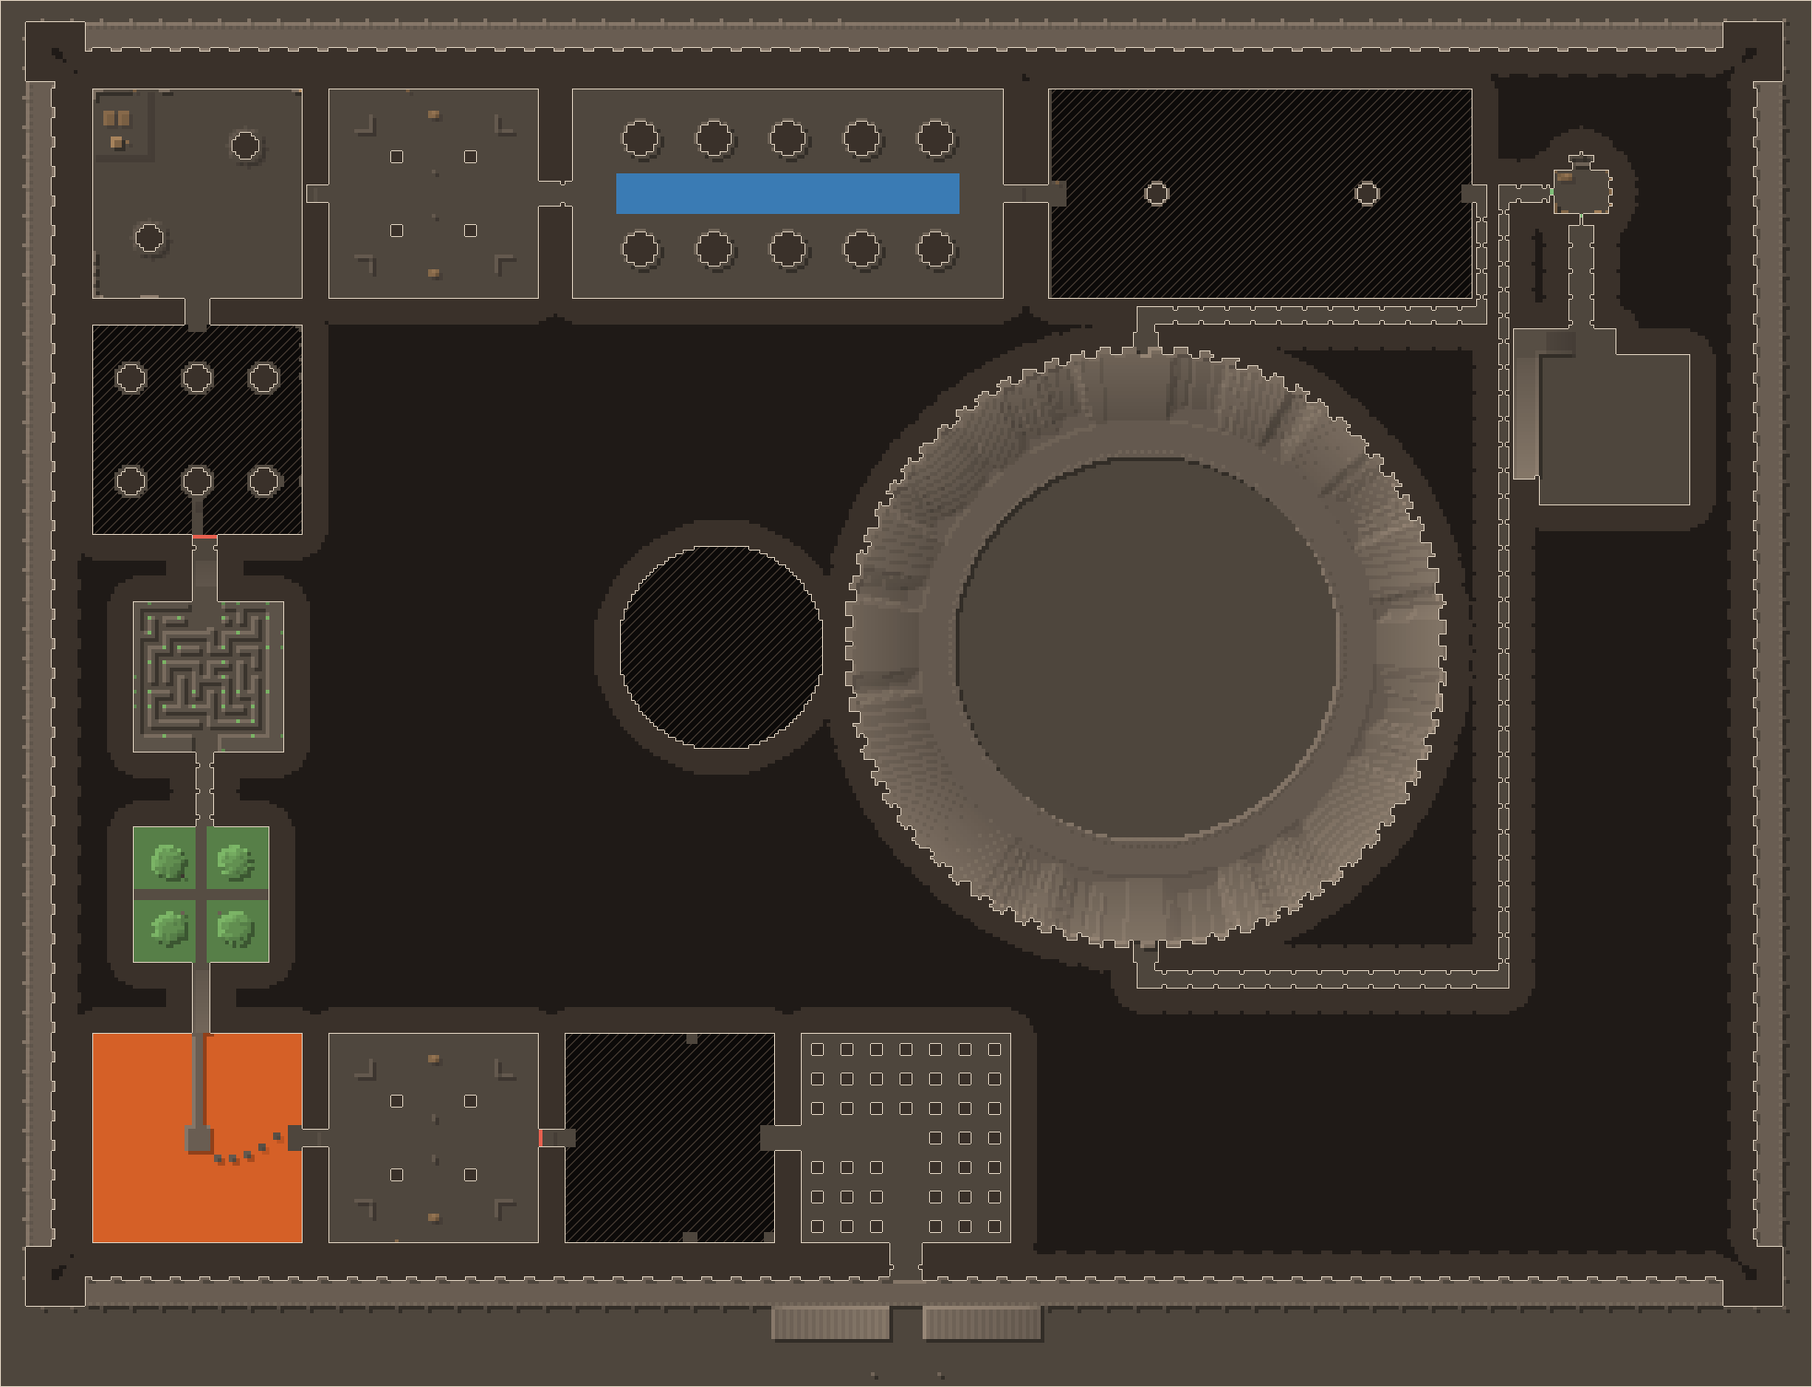
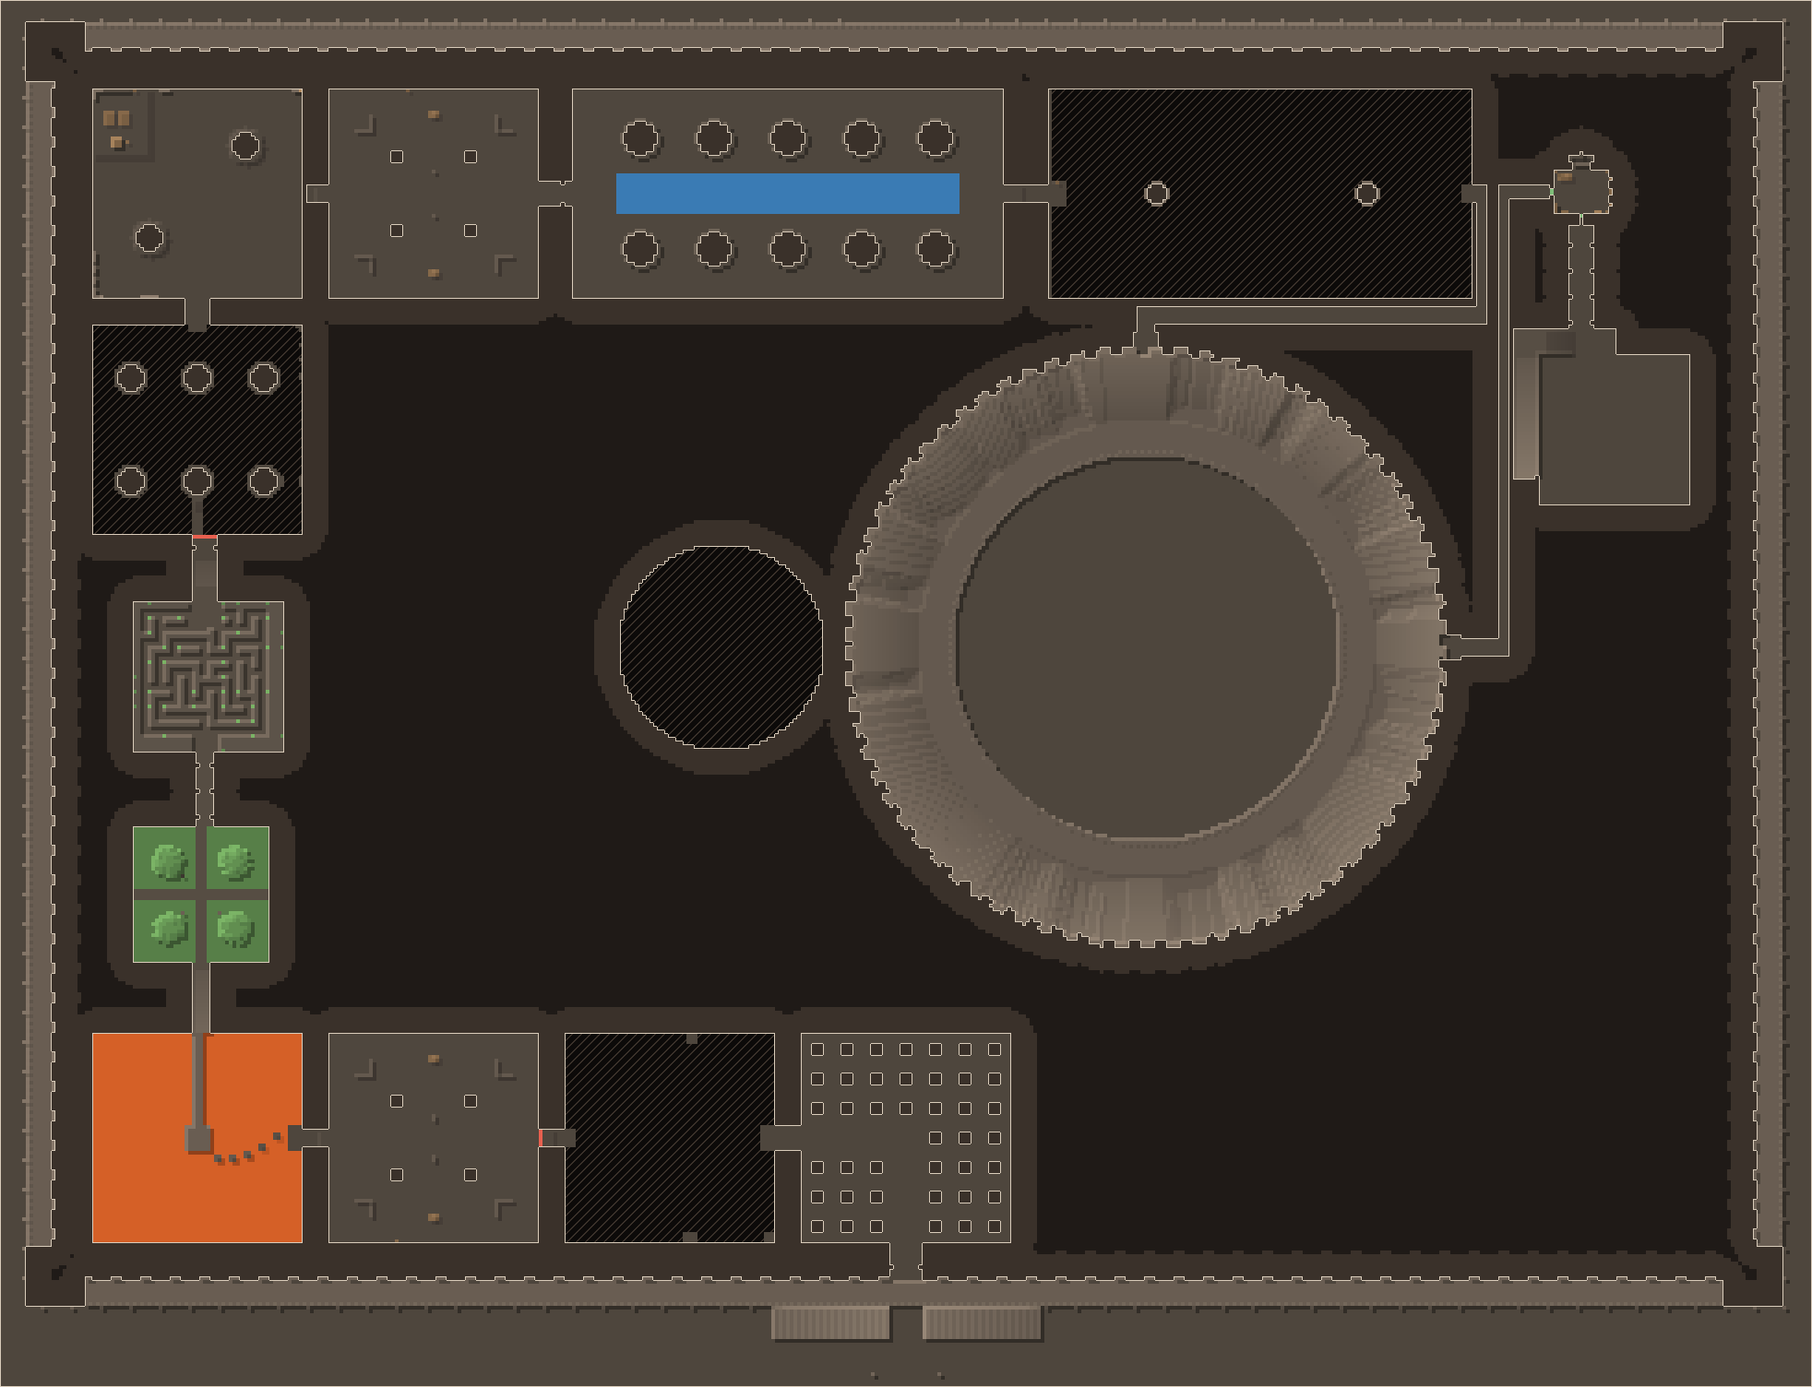
map update

Changed region(s): [[0.5901, 0.4688, 0.8697, 0.75]]

diff --git a/src/mapdata.js b/src/mapdata.js
@@ -1,3 +1,3 @@
 // Generated by tools/gen-map.js - do not edit by hand.
-const MAPDATA = {"version":47,"scale":4,"levels":{"1":{"x0":-245,"z0":-270,"w":491,"h":376,"rooms":[{"kind":"ENTRANCE","name":"Entrance","sort":"start","floor":70,"height":33,"tags":[],"box":[-28,10,29,67],"at":[1,39]},{"kind":"PF8","name":"Parkour: Void","sort":"parkour","floor":70,"height":45,"tags":[],"box":[-92,10,-35,67],"at":[-63,39]},{"kind":"ARENA","name":"Combat Arena","sort":"fight","floor":71,"height":45,"tags":["gated","chest"],"box":[-156,10,-99,67],"at":[-127,39]},{"kind":"PF6","name":"Parkour: Lava","sort":"parkour","floor":70,"height":45,"tags":[],"box":[-220,10,-163,67],"at":[-191,39]},{"kind":"GARDEN","name":"Garden","sort":"room","floor":77,"height":24,"tags":[],"box":[-209,-46,-172,-9],"at":[-190,-27]},{"kind":"LIBRARY","name":"Library","sort":"room","floor":77,"height":39,"tags":[],"box":[-209,-107,-168,-66],"at":[-188,-86]},{"kind":"PF2","name":"Parkour: Void","sort":"parkour","floor":70,"height":45,"tags":["gated"],"box":[-220,-182,-163,-125],"at":[-191,-153]},{"kind":"GOLEM2","name":"Golem Room 2","sort":"puzzle","floor":70,"height":45,"tags":[],"box":[-220,-246,-163,-189],"at":[-191,-217]},{"kind":"ARENA","name":"Combat Arena","sort":"fight","floor":71,"height":33,"tags":["chest"],"box":[-156,-246,-99,-189],"at":[-127,-217]},{"kind":"MASSIVE","name":"Great Hall","sort":"room","floor":71,"height":75,"tags":[],"box":[-90,-246,27,-189],"at":[-31,-217]},{"kind":"CRUCIBLE","name":"Crucible Rotation","sort":"parkour","floor":70,"height":45,"tags":[],"box":[39,-246,158,-186],"at":[99,-216]},{"kind":"COLOSSEUM","name":"Colosseum: Standard","sort":"colosseum","floor":70,"height":46,"tags":[],"box":[-21,-181,151,-9],"colosseum":1,"at":[65,-95]},{"kind":"SAFE","name":"Safe Room","sort":"safe","floor":70,"height":21,"tags":[],"box":[161,-224,187,-212],"at":[174,-218]},{"kind":"STAIRWELL","name":"Stairs Up","sort":"stairs","floor":70,"height":12,"tags":[],"box":[161,-181,213,-133],"at":[187,-157]}],"route":[[[1.5,39.5],[-62.5,39.5]],[[-62.5,39.5],[-126.5,39.5]],[[-126.5,39.5],[-190.5,39.5]],[[-190.5,39.5],[-189.5,-26.5]],[[-189.5,-26.5],[-189.5,-83.5],[-187.5,-85.5]],[[-187.5,-85.5],[-189.5,-89.5],[-189.5,-128.5],[-182.5,-135.5],[-182.5,-144.5],[-190.5,-152.5]],[[-190.5,-152.5],[-182.5,-160.5],[-182.5,-171.5],[-191.5,-180.5],[-190.5,-216.5]],[[-126.5,-216.5],[-30.5,-216.5]],[[-30.5,-216.5],[47.5,-217.5],[58.5,-206.5],[84.5,-206.5],[96.5,-215.5],[99.5,-215.5]],[[99.5,-215.5],[109.5,-206.5],[134.5,-206.5],[144.5,-216.5],[154.5,-216.5],[156.5,-214.5],[156.5,-186.5],[154.5,-184.5],[68.5,-184.5],[65.5,-181.5],[65.5,-94.5]],[[65.5,-94.5],[65.5,-7.5],[68.5,-4.5],[160.5,-4.5],[162.5,-6.5],[162.5,-215.5],[164.5,-217.5],[179.5,-217.5]],[[179.5,-217.5],[183.5,-213.5],[183.5,-160.5],[187.5,-156.5]]],"locked":[[[-191,-217],[-127,-217]]],"chests":[[-209,-246],[-164,-246],[-135,-246],[-138,66],[178,-213],[179,-213]]},"2":{"x0":-245,"z0":-270,"w":491,"h":376,"rooms":[{"kind":"CHAPEL","name":"Chapel","sort":"room","floor":121,"height":25,"tags":["trap"],"box":[180,-238,207,-199],"at":[194,-218]},{"kind":"PF3","name":"Parkour: Lava","sort":"parkour","floor":120,"height":45,"tags":[],"box":[100,-246,157,-189],"at":[129,-217]},{"kind":"ARMORY","name":"Armory","sort":"room","floor":142,"height":24,"tags":["chest"],"box":[36,-246,93,-189],"at":[65,-217]},{"kind":"OVER","name":"High Bridge","sort":"room","floor":135,"height":10,"tags":["bridge"],"box":[-90,-246,27,-186],"at":[-31,-216]},{"kind":"ROTUNDA","name":"Rotunda","sort":"room","floor":129,"height":37,"tags":["gated"],"box":[-152,-244,-99,-186],"at":[-125,-215]},{"kind":"GOLEM","name":"Golem Room","sort":"puzzle","floor":130,"height":26,"tags":[],"box":[-203,-248,-180,-201],"at":[-191,-224]},{"kind":"HYPOSTYLE","name":"Hypostyle Hall","sort":"room","floor":127,"height":39,"tags":["gated"],"box":[-215,-180,-162,-127],"at":[-188,-153]},{"kind":"ARENA","name":"Combat Arena","sort":"fight","floor":127,"height":27,"tags":[],"box":[-220,-118,-163,-61],"at":[-191,-89]},{"kind":"COLONNADE","name":"Colonnade","sort":"room","floor":127,"height":28,"tags":[],"box":[-208,-49,-175,0],"at":[-191,-24]},{"kind":"PF5","name":"Parkour: Lava","sort":"parkour","floor":120,"height":45,"tags":[],"box":[-220,10,-163,67],"at":[-191,39]},{"kind":"ARENA","name":"Combat Arena","sort":"fight","floor":133,"height":27,"tags":["chest"],"box":[-156,10,-96,67],"at":[-126,39]},{"kind":"COLOSSEUM","name":"Colosseum: Ring","sort":"colosseum","floor":120,"height":46,"tags":[],"box":[-136,-181,36,-9],"colosseum":2,"at":[-50,-95]},{"kind":"SAFE","name":"Safe Room","sort":"safe","floor":120,"height":21,"tags":[],"box":[-96,19,-60,32],"at":[-78,26]},{"kind":"STAIRWELL","name":"Stairs Up","sort":"stairs","floor":120,"height":12,"tags":[],"box":[-27,11,21,59],"at":[-3,35]}],"route":[[[194.5,-217.5],[129.5,-216.5]],[[129.5,-216.5],[116.5,-227.5],[76.5,-227.5],[65.5,-216.5]],[[65.5,-216.5],[-28.5,-217.5],[-30.5,-215.5]],[[-30.5,-215.5],[-32.5,-217.5],[-121.5,-217.5],[-124.5,-214.5]],[[-124.5,-214.5],[-127.5,-217.5],[-184.5,-217.5],[-190.5,-223.5]],[[-190.5,-223.5],[-190.5,-155.5],[-187.5,-152.5]],[[-187.5,-152.5],[-190.5,-149.5],[-190.5,-88.5]],[[-190.5,-88.5],[-190.5,-23.5]],[[-190.5,-23.5],[-190.5,39.5]],[[-190.5,39.5],[-168.5,59.5],[-154.5,59.5],[-147.5,52.5],[-147.5,48.5],[-138.5,39.5],[-125.5,39.5]],[[-125.5,39.5],[-111.5,25.5],[-98.5,25.5],[-96.5,23.5],[-96.5,-2.5],[-98.5,-4.5],[-141.5,-4.5],[-144.5,-7.5],[-144.5,-181.5],[-141.5,-184.5],[-52.5,-184.5],[-49.5,-181.5],[-49.5,-94.5]],[[-49.5,-94.5],[-49.5,-7.5],[-52.5,-4.5],[-75.5,-4.5],[-77.5,-2.5],[-76.5,25.5]],[[-76.5,25.5],[-61.5,25.5],[-58.5,28.5],[-53.5,29.5],[-8.5,29.5],[-2.5,35.5]]],"locked":[],"chests":[[-181,-248],[-181,-246],[-181,-245],[-144,10],[-69,30],[-68,30],[50,-246]]},"3":{"x0":-245,"z0":-270,"w":491,"h":376,"rooms":[{"kind":"PRISON","name":"Prison","sort":"room","floor":172,"height":44,"tags":[],"box":[-90,12,-33,69],"at":[-61,41]},{"kind":"TREASURY","name":"Treasury","sort":"room","floor":173,"height":24,"tags":["trap"],"box":[-149,16,-108,57],"at":[-128,37]},{"kind":"PF1","name":"Parkour: Lava","sort":"parkour","floor":170,"height":45,"tags":[],"box":[-220,10,-163,67],"at":[-191,39]},{"kind":"LIBRARY","name":"Library","sort":"room","floor":192,"height":24,"tags":["trap"],"box":[-209,-45,-172,-8],"at":[-190,-26]},{"kind":"BARRACKS","name":"Barracks","sort":"room","floor":170,"height":22,"tags":[],"box":[-204,-112,-175,-73],"at":[-189,-92]},{"kind":"CRYPT","name":"Crypt","sort":"room","floor":170,"height":35,"tags":["chest"],"box":[-215,-178,-162,-129],"at":[-188,-153]},{"kind":"PF7","name":"Parkour: Lava","sort":"parkour","floor":170,"height":45,"tags":[],"box":[-220,-246,-163,-189],"at":[-191,-217]},{"kind":"ARENA","name":"Combat Arena","sort":"fight","floor":198,"height":18,"tags":[],"box":[-156,-246,-99,-189],"at":[-127,-217]},{"kind":"POOL","name":"Pool","sort":"room","floor":189,"height":27,"tags":[],"box":[-88,-242,-35,-189],"at":[-61,-215]},{"kind":"KITCHEN","name":"Kitchen","sort":"room","floor":186,"height":30,"tags":["trap"],"box":[-30,-238,27,-195],"at":[-1,-216]},{"kind":"ARENA","name":"Combat Arena","sort":"fight","floor":179,"height":24,"tags":[],"box":[36,-246,93,-186],"at":[65,-216]},{"kind":"THRONE","name":"Throne Room","sort":"fight","floor":180,"height":27,"tags":["chest"],"box":[111,-247,154,-186],"at":[133,-216]},{"kind":"COLOSSEUM","name":"Colosseum: Cylinder","sort":"colosseum","floor":170,"height":46,"tags":[],"box":[-21,-181,151,-9],"colosseum":3,"at":[65,-95]},{"kind":"SAFE","name":"Safe Room","sort":"safe","floor":180,"height":21,"tags":[],"box":[161,-224,196,-212],"at":[179,-218]},{"kind":"STAIRWELL","name":"Stairs Up","sort":"stairs","floor":181,"height":12,"tags":["gated"],"box":[161,-181,220,-133],"at":[191,-157]}],"route":[[[-60.5,41.5],[-65.5,38.5],[-127.5,37.5]],[[-127.5,37.5],[-172.5,37.5],[-190.5,39.5]],[[-190.5,39.5],[-189.5,-25.5]],[[-189.5,-25.5],[-188.5,-91.5]],[[-188.5,-91.5],[-190.5,-100.5],[-190.5,-149.5],[-187.5,-152.5]],[[-187.5,-152.5],[-191.5,-156.5],[-190.5,-216.5]],[[-190.5,-216.5],[-166.5,-194.5],[-151.5,-194.5],[-146.5,-198.5],[-136.5,-198.5],[-127.5,-207.5],[-126.5,-216.5]],[[-126.5,-216.5],[-63.5,-216.5],[-60.5,-214.5]],[[-60.5,-214.5],[-0.5,-215.5]],[[-0.5,-215.5],[65.5,-215.5]],[[65.5,-215.5],[67.5,-217.5],[130.5,-217.5],[133.5,-215.5]],[[133.5,-215.5],[150.5,-216.5],[152.5,-214.5],[152.5,-186.5],[150.5,-184.5],[68.5,-184.5],[65.5,-181.5],[65.5,-94.5]],[[65.5,-94.5],[65.5,-7.5],[68.5,-4.5],[160.5,-4.5],[162.5,-6.5],[162.5,-214.5],[165.5,-217.5],[177.5,-217.5]],[[177.5,-217.5],[188.5,-217.5],[192.5,-213.5],[192.5,-181.5],[195.5,-177.5],[195.5,-160.5],[191.5,-156.5]]],"locked":[],"chests":[[-212,-154],[-201,-99],[-201,-102],[-201,-105],[-201,-108],[-179,-99],[-179,-102],[-179,-105],[-179,-108],[-201,-81],[-201,-84],[-201,-87],[-201,-90],[-201,-93],[-201,-96],[-179,-81],[-179,-84],[-179,-87],[-179,-90],[-179,-93],[-179,-96],[-201,-78],[-179,-78],[-149,21],[-149,24],[-149,27],[-149,30],[-147,16],[-149,18],[-129,16],[-144,16],[-141,16],[-138,16],[-135,16],[-132,16],[-114,16],[-126,16],[-123,16],[-120,16],[-117,16],[-109,27],[-109,30],[-111,16],[-109,18],[-109,21],[-109,24],[-149,42],[-149,45],[-109,45],[-149,51],[-149,54],[-147,56],[-149,48],[-138,56],[-135,56],[-132,56],[-129,56],[-144,56],[-141,56],[-120,56],[-117,56],[-114,56],[-126,56],[-123,56],[-109,48],[-109,51],[-111,56],[-109,54],[128,-247],[187,-213],[188,-213]]}}};
+const MAPDATA = {"version":49,"scale":4,"levels":{"1":{"x0":-245,"z0":-270,"w":491,"h":376,"rooms":[{"kind":"ENTRANCE","name":"Entrance","sort":"start","floor":70,"height":33,"tags":[],"box":[-28,10,29,67],"at":[1,39]},{"kind":"PF8","name":"Parkour: Void","sort":"parkour","floor":70,"height":45,"tags":[],"box":[-92,10,-35,67],"at":[-63,39]},{"kind":"ARENA","name":"Combat Arena","sort":"fight","floor":71,"height":45,"tags":["gated","chest"],"box":[-156,10,-99,67],"at":[-127,39]},{"kind":"PF6","name":"Parkour: Lava","sort":"parkour","floor":70,"height":45,"tags":[],"box":[-220,10,-163,67],"at":[-191,39]},{"kind":"GARDEN","name":"Garden","sort":"room","floor":77,"height":24,"tags":[],"box":[-209,-46,-172,-9],"at":[-190,-27]},{"kind":"LIBRARY","name":"Library","sort":"room","floor":77,"height":39,"tags":[],"box":[-209,-107,-168,-66],"at":[-188,-86]},{"kind":"PF2","name":"Parkour: Void","sort":"parkour","floor":70,"height":45,"tags":["gated"],"box":[-220,-182,-163,-125],"at":[-191,-153]},{"kind":"GOLEM2","name":"Golem Room 2","sort":"puzzle","floor":70,"height":45,"tags":[],"box":[-220,-246,-163,-189],"at":[-191,-217]},{"kind":"ARENA","name":"Combat Arena","sort":"fight","floor":71,"height":33,"tags":["chest"],"box":[-156,-246,-99,-189],"at":[-127,-217]},{"kind":"MASSIVE","name":"Great Hall","sort":"room","floor":71,"height":75,"tags":[],"box":[-90,-246,27,-189],"at":[-31,-217]},{"kind":"CRUCIBLE","name":"Crucible Rotation","sort":"parkour","floor":70,"height":45,"tags":[],"box":[39,-246,158,-186],"at":[99,-216]},{"kind":"COLOSSEUM","name":"Colosseum: Standard","sort":"colosseum","floor":70,"height":46,"tags":[],"box":[-21,-181,151,-9],"colosseum":1,"at":[65,-95]},{"kind":"SAFE","name":"Safe Room","sort":"safe","floor":70,"height":21,"tags":[],"box":[161,-224,187,-212],"at":[174,-218]},{"kind":"STAIRWELL","name":"Stairs Up","sort":"stairs","floor":70,"height":12,"tags":[],"box":[161,-181,213,-133],"at":[187,-157]}],"route":[[[1.5,39.5],[-62.5,39.5]],[[-62.5,39.5],[-126.5,39.5]],[[-126.5,39.5],[-190.5,39.5]],[[-190.5,39.5],[-189.5,-26.5]],[[-189.5,-26.5],[-189.5,-83.5],[-187.5,-85.5]],[[-187.5,-85.5],[-189.5,-89.5],[-189.5,-128.5],[-182.5,-135.5],[-182.5,-144.5],[-190.5,-152.5]],[[-190.5,-152.5],[-182.5,-160.5],[-182.5,-171.5],[-191.5,-180.5],[-190.5,-216.5]],[[-126.5,-216.5],[-30.5,-216.5]],[[-30.5,-216.5],[47.5,-217.5],[58.5,-206.5],[84.5,-206.5],[96.5,-215.5],[99.5,-215.5]],[[99.5,-215.5],[109.5,-206.5],[134.5,-206.5],[144.5,-216.5],[154.5,-216.5],[156.5,-214.5],[156.5,-186.5],[154.5,-184.5],[68.5,-184.5],[65.5,-181.5],[65.5,-94.5]],[[65.5,-94.5],[160.5,-94.5],[162.5,-96.5],[162.5,-215.5],[164.5,-217.5],[179.5,-217.5]],[[179.5,-217.5],[183.5,-213.5],[183.5,-160.5],[187.5,-156.5]]],"locked":[[[-191,-217],[-127,-217]]],"chests":[[-209,-246],[-164,-246],[-135,-246],[-138,66],[178,-213],[179,-213]]},"2":{"x0":-245,"z0":-270,"w":491,"h":376,"rooms":[{"kind":"CHAPEL","name":"Chapel","sort":"room","floor":121,"height":25,"tags":["trap"],"box":[180,-238,207,-199],"at":[194,-218]},{"kind":"PF3","name":"Parkour: Lava","sort":"parkour","floor":120,"height":45,"tags":[],"box":[100,-246,157,-189],"at":[129,-217]},{"kind":"ARMORY","name":"Armory","sort":"room","floor":142,"height":24,"tags":["chest"],"box":[36,-246,93,-189],"at":[65,-217]},{"kind":"OVER","name":"High Bridge","sort":"room","floor":135,"height":10,"tags":["bridge"],"box":[-90,-246,27,-186],"at":[-31,-216]},{"kind":"ROTUNDA","name":"Rotunda","sort":"room","floor":129,"height":37,"tags":["gated"],"box":[-152,-244,-99,-186],"at":[-125,-215]},{"kind":"GOLEM","name":"Golem Room","sort":"puzzle","floor":130,"height":26,"tags":[],"box":[-203,-248,-180,-201],"at":[-191,-224]},{"kind":"HYPOSTYLE","name":"Hypostyle Hall","sort":"room","floor":127,"height":39,"tags":["gated"],"box":[-215,-180,-162,-127],"at":[-188,-153]},{"kind":"ARENA","name":"Combat Arena","sort":"fight","floor":127,"height":27,"tags":[],"box":[-220,-118,-163,-61],"at":[-191,-89]},{"kind":"COLONNADE","name":"Colonnade","sort":"room","floor":127,"height":28,"tags":[],"box":[-208,-49,-175,0],"at":[-191,-24]},{"kind":"PF5","name":"Parkour: Lava","sort":"parkour","floor":120,"height":45,"tags":[],"box":[-220,10,-163,67],"at":[-191,39]},{"kind":"ARENA","name":"Combat Arena","sort":"fight","floor":133,"height":27,"tags":["chest"],"box":[-156,10,-96,67],"at":[-126,39]},{"kind":"COLOSSEUM","name":"Colosseum: Ring","sort":"colosseum","floor":120,"height":46,"tags":[],"box":[-136,-181,36,-9],"colosseum":2,"at":[-50,-95]},{"kind":"SAFE","name":"Safe Room","sort":"safe","floor":120,"height":21,"tags":[],"box":[-96,19,-60,32],"at":[-78,26]},{"kind":"STAIRWELL","name":"Stairs Up","sort":"stairs","floor":120,"height":12,"tags":[],"box":[-27,11,21,59],"at":[-3,35]}],"route":[[[194.5,-217.5],[129.5,-216.5]],[[129.5,-216.5],[116.5,-227.5],[76.5,-227.5],[65.5,-216.5]],[[65.5,-216.5],[-28.5,-217.5],[-30.5,-215.5]],[[-30.5,-215.5],[-32.5,-217.5],[-121.5,-217.5],[-124.5,-214.5]],[[-124.5,-214.5],[-127.5,-217.5],[-184.5,-217.5],[-190.5,-223.5]],[[-190.5,-223.5],[-190.5,-155.5],[-187.5,-152.5]],[[-187.5,-152.5],[-190.5,-149.5],[-190.5,-88.5]],[[-190.5,-88.5],[-190.5,-23.5]],[[-190.5,-23.5],[-190.5,39.5]],[[-190.5,39.5],[-168.5,59.5],[-154.5,59.5],[-147.5,52.5],[-147.5,48.5],[-138.5,39.5],[-125.5,39.5]],[[-125.5,39.5],[-111.5,25.5],[-98.5,25.5],[-96.5,23.5],[-96.5,-2.5],[-98.5,-4.5],[-141.5,-4.5],[-144.5,-7.5],[-144.5,-181.5],[-141.5,-184.5],[-52.5,-184.5],[-49.5,-181.5],[-49.5,-94.5]],[[-49.5,-94.5],[-49.5,-7.5],[-52.5,-4.5],[-75.5,-4.5],[-77.5,-2.5],[-76.5,24.5]],[[-76.5,24.5],[-62.5,24.5],[-58.5,28.5],[-53.5,29.5],[-8.5,29.5],[-2.5,35.5]]],"locked":[],"chests":[[-181,-248],[-181,-246],[-181,-245],[-144,10],[-69,30],[-68,30],[50,-246]]},"3":{"x0":-245,"z0":-270,"w":491,"h":376,"rooms":[{"kind":"PRISON","name":"Prison","sort":"room","floor":172,"height":44,"tags":[],"box":[-90,12,-33,69],"at":[-61,41]},{"kind":"TREASURY","name":"Treasury","sort":"room","floor":173,"height":24,"tags":["trap"],"box":[-149,16,-108,57],"at":[-128,37]},{"kind":"PF1","name":"Parkour: Lava","sort":"parkour","floor":170,"height":45,"tags":[],"box":[-220,10,-163,67],"at":[-191,39]},{"kind":"LIBRARY","name":"Library","sort":"room","floor":192,"height":24,"tags":["trap"],"box":[-209,-45,-172,-8],"at":[-190,-26]},{"kind":"BARRACKS","name":"Barracks","sort":"room","floor":170,"height":22,"tags":[],"box":[-204,-112,-175,-73],"at":[-189,-92]},{"kind":"CRYPT","name":"Crypt","sort":"room","floor":170,"height":35,"tags":["chest"],"box":[-215,-178,-162,-129],"at":[-188,-153]},{"kind":"PF7","name":"Parkour: Lava","sort":"parkour","floor":170,"height":45,"tags":[],"box":[-220,-246,-163,-189],"at":[-191,-217]},{"kind":"ARENA","name":"Combat Arena","sort":"fight","floor":198,"height":18,"tags":[],"box":[-156,-246,-99,-189],"at":[-127,-217]},{"kind":"POOL","name":"Pool","sort":"room","floor":189,"height":27,"tags":[],"box":[-88,-242,-35,-189],"at":[-61,-215]},{"kind":"KITCHEN","name":"Kitchen","sort":"room","floor":186,"height":30,"tags":["trap"],"box":[-30,-238,27,-195],"at":[-1,-216]},{"kind":"ARENA","name":"Combat Arena","sort":"fight","floor":179,"height":24,"tags":[],"box":[36,-246,93,-186],"at":[65,-216]},{"kind":"THRONE","name":"Throne Room","sort":"fight","floor":180,"height":27,"tags":["chest"],"box":[111,-247,154,-186],"at":[133,-216]},{"kind":"COLOSSEUM","name":"Colosseum: Cylinder","sort":"colosseum","floor":170,"height":46,"tags":[],"box":[-21,-181,151,-9],"colosseum":3,"at":[65,-95]},{"kind":"SAFE","name":"Safe Room","sort":"safe","floor":180,"height":21,"tags":[],"box":[161,-224,196,-212],"at":[179,-218]},{"kind":"STAIRWELL","name":"Stairs Up","sort":"stairs","floor":181,"height":12,"tags":["gated"],"box":[161,-181,220,-133],"at":[191,-157]}],"route":[[[-60.5,41.5],[-65.5,38.5],[-127.5,37.5]],[[-127.5,37.5],[-172.5,37.5],[-190.5,39.5]],[[-190.5,39.5],[-189.5,-25.5]],[[-189.5,-25.5],[-188.5,-91.5]],[[-188.5,-91.5],[-190.5,-100.5],[-190.5,-149.5],[-187.5,-152.5]],[[-187.5,-152.5],[-191.5,-156.5],[-190.5,-216.5]],[[-190.5,-216.5],[-166.5,-194.5],[-151.5,-194.5],[-146.5,-198.5],[-136.5,-198.5],[-127.5,-207.5],[-126.5,-216.5]],[[-126.5,-216.5],[-63.5,-216.5],[-60.5,-214.5]],[[-60.5,-214.5],[-0.5,-215.5]],[[-0.5,-215.5],[65.5,-215.5]],[[65.5,-215.5],[67.5,-217.5],[130.5,-217.5],[133.5,-215.5]],[[133.5,-215.5],[150.5,-216.5],[152.5,-214.5],[152.5,-186.5],[150.5,-184.5],[68.5,-184.5],[65.5,-181.5],[65.5,-94.5]],[[65.5,-94.5],[160.5,-94.5],[162.5,-96.5],[162.5,-215.5],[164.5,-217.5],[179.5,-217.5]],[[179.5,-217.5],[188.5,-217.5],[192.5,-213.5],[192.5,-181.5],[195.5,-177.5],[195.5,-160.5],[191.5,-156.5]]],"locked":[],"chests":[[-212,-154],[-201,-99],[-201,-102],[-201,-105],[-201,-108],[-179,-99],[-179,-102],[-179,-105],[-179,-108],[-201,-81],[-201,-84],[-201,-87],[-201,-90],[-201,-93],[-201,-96],[-179,-81],[-179,-84],[-179,-87],[-179,-90],[-179,-93],[-179,-96],[-201,-78],[-179,-78],[-149,21],[-149,24],[-149,27],[-149,30],[-147,16],[-149,18],[-129,16],[-144,16],[-141,16],[-138,16],[-135,16],[-132,16],[-114,16],[-126,16],[-123,16],[-120,16],[-117,16],[-109,27],[-109,30],[-111,16],[-109,18],[-109,21],[-109,24],[-149,42],[-149,45],[-109,45],[-149,51],[-149,54],[-147,56],[-149,48],[-138,56],[-135,56],[-132,56],[-129,56],[-144,56],[-141,56],[-120,56],[-117,56],[-114,56],[-126,56],[-123,56],[-109,48],[-109,51],[-111,56],[-109,54],[128,-247],[187,-213],[188,-213]]}}};
 if (typeof module !== 'undefined') module.exports = MAPDATA;
